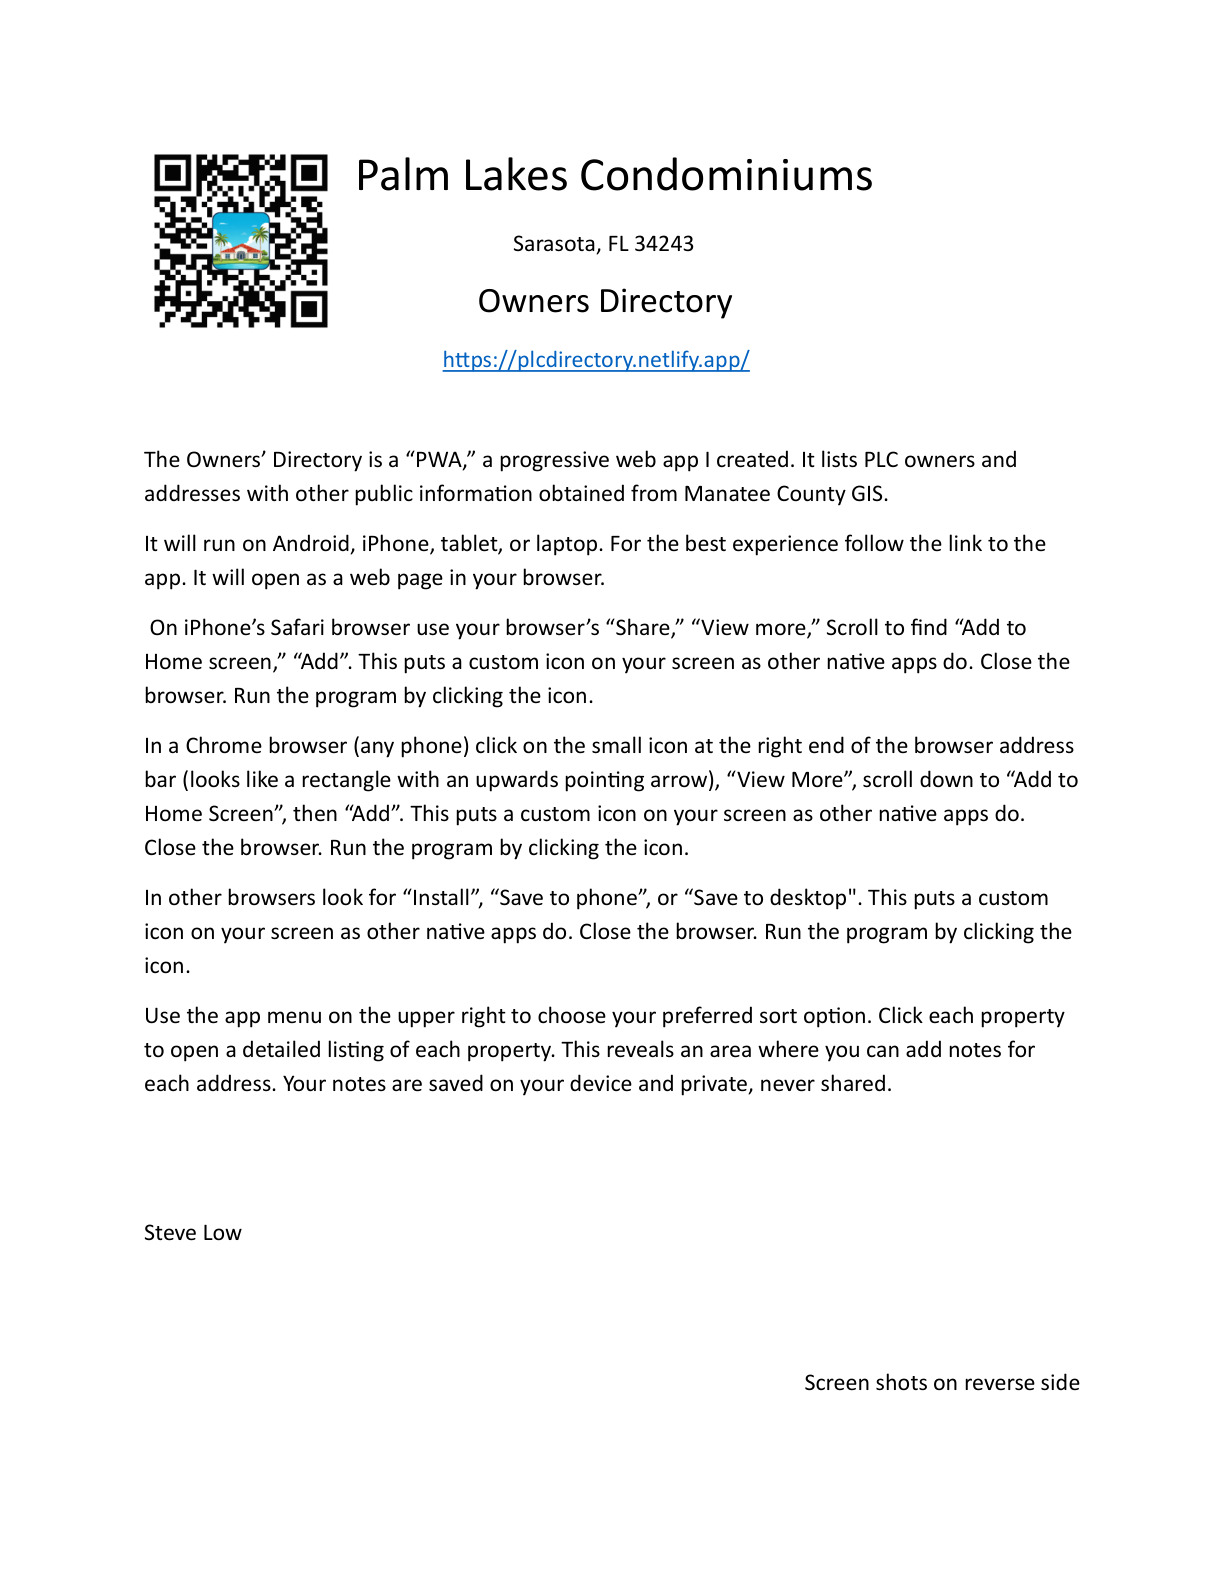
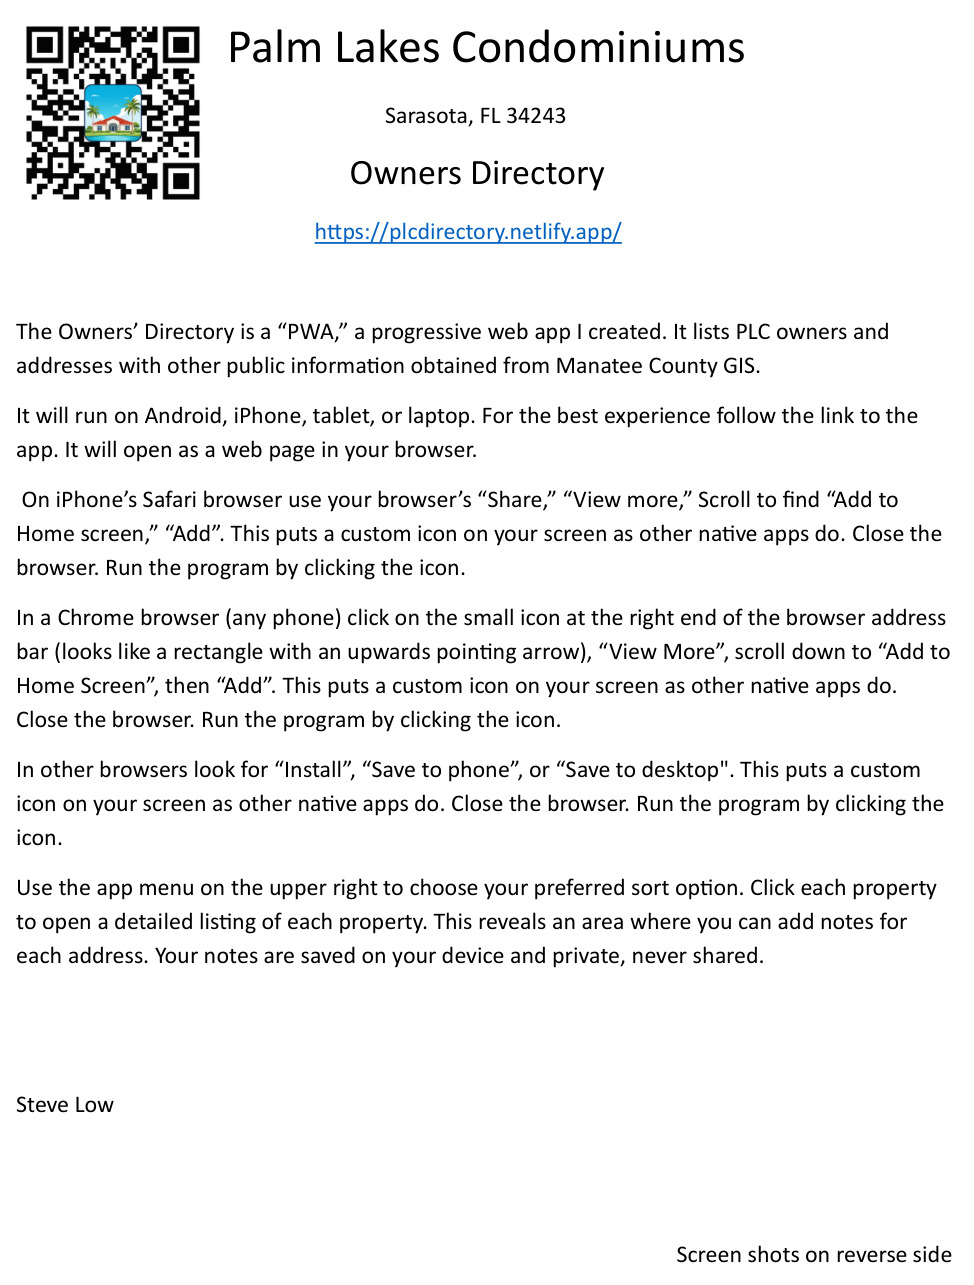
Update PDF rendering logic and instructions assets
Replit-Commit-Author: Agent

diff --git a/artifacts/mobile/app/(tabs)/index.tsx b/artifacts/mobile/app/(tabs)/index.tsx
@@ -55,11 +55,13 @@ const INSTRUCTIONS_PAGES = [
     source: require("../../assets/images/instructions-page-1.jpg"),
     label: "Front side · Page 1 of 2",
     accessibilityLabel: "Instructions front side, page 1 of 2",
+    aspectRatio: 486.8 / 642.2,
   },
   {
     source: require("../../assets/images/instructions-page-2.jpg"),
     label: "Back side · screen captures · Page 2 of 2",
     accessibilityLabel: "Instructions back side with screen captures, page 2 of 2",
+    aspectRatio: 431.1 / 661.8,
   },
 ];
 
@@ -1016,7 +1018,12 @@ export default function DirectoryScreen() {
                 <Text style={[styles.instructionsPageLabel, { color: theme.textMuted, fontFamily: "Inter_600SemiBold" }]}>
                   {page.label}
                 </Text>
-                <View style={styles.instructionsPageImageFrame}>
+                <View
+                  style={[
+                    styles.instructionsPageImageFrame,
+                    { aspectRatio: page.aspectRatio },
+                  ]}
+                >
                   <Image
                     source={page.source}
                     style={styles.instructionsPageImage}
@@ -1379,7 +1386,6 @@ const styles = StyleSheet.create({
   },
   instructionsPageImageFrame: {
     width: "100%",
-    aspectRatio: 612 / 792,
     maxWidth: 760,
     backgroundColor: "#fff",
   },

diff --git a/.agents/scripts/render-instructions-pdf.py b/.agents/scripts/render-instructions-pdf.py
@@ -1,5 +1,5 @@
 #!/usr/bin/env python3
-"""Render the Palm Lakes instruction PDF pages for visual inspection."""
+"""Render the Palm Lakes instruction PDF and create cropped viewer assets."""
 
 from pathlib import Path
 
@@ -10,6 +10,34 @@ ROOT = Path(__file__).resolve().parents[2]
 SOURCE = ROOT / "artifacts/mobile/public/Instructions.pdf"
 OUTPUT_DIR = ROOT / ".agents/outputs/instructions-pdf"
 ASSET_DIR = ROOT / "artifacts/mobile/assets/images"
+VIEWER_CROP_PADDING = 8
+
+
+def content_bounds(page: pymupdf.Page) -> pymupdf.Rect:
+    bounds: pymupdf.Rect | None = None
+    for block in page.get_text("dict")["blocks"]:
+        if block["type"] == 0:
+            text = "".join(
+                span["text"]
+                for line in block["lines"]
+                for span in line["spans"]
+            ).strip()
+            if not text:
+                continue
+        elif block["type"] != 1:
+            continue
+
+        block_bounds = pymupdf.Rect(block["bbox"])
+        bounds = block_bounds if bounds is None else bounds | block_bounds
+
+    if bounds is None:
+        raise ValueError(f"Page {page.number + 1} has no visible content to crop")
+
+    bounds.x0 -= VIEWER_CROP_PADDING
+    bounds.y0 -= VIEWER_CROP_PADDING
+    bounds.x1 += VIEWER_CROP_PADDING
+    bounds.y1 += VIEWER_CROP_PADDING
+    return bounds & page.rect
 
 
 def main() -> None:
@@ -24,12 +52,18 @@ def main() -> None:
         inspection_path = OUTPUT_DIR / f"page-{index}.png"
         inspection_image.save(inspection_path)
 
-        app_image = page.get_pixmap(matrix=pymupdf.Matrix(2, 2), alpha=False)
+        crop = content_bounds(page)
+        app_image = page.get_pixmap(
+            matrix=pymupdf.Matrix(2, 2),
+            clip=crop,
+            alpha=False,
+        )
         asset_path = ASSET_DIR / f"instructions-page-{index}.jpg"
         app_image.save(asset_path, output="jpeg", jpg_quality=92)
         print(
             f"Rendered page {index}/{document.page_count}: "
-            f"{inspection_path} and {asset_path}"
+            f"{inspection_path} and cropped viewer asset {asset_path} "
+            f"({crop.width:.1f} × {crop.height:.1f} pt)"
         )
 
 

diff --git a/.agents/memory/ios-pwa-multipage-pdf.md b/.agents/memory/ios-pwa-multipage-pdf.md
@@ -3,8 +3,8 @@ name: iOS PWA multi-page PDF viewing
 description: iPhone's inline PDF viewer inside an app-owned iframe may expose only the first page; render pages separately for reliable in-app scrolling.
 ---
 
-When a multi-page PDF must be browsable inside the iOS PWA, do not rely on the browser's native PDF viewer embedded in an iframe. iPhone can show the first page while hiding access to subsequent pages. For small, mostly static documents, render each page to a bundled image and display all pages in a vertically scrollable in-app view; preserve clear front/back labels and the source PDF for printing or downloading.
+When a multi-page PDF must be browsable inside the iOS PWA, do not rely on the browser's native PDF viewer embedded in an iframe. iPhone can show the first page while hiding access to subsequent pages. For small, mostly static documents, render each page to a bundled image, trim only the outer blank margins around text/image content with a little padding, and display all pages in a vertically scrollable in-app view. Keep clear front/back labels and preserve the original PDF unchanged.
 
-**Why:** The two-page owner-directory instructions PDF showed only its text/front page in the iPhone in-app iframe, leaving the screenshots on the reverse side inaccessible.
+**Why:** The two-page owner-directory instructions PDF showed only its text/front page in the iPhone in-app iframe, leaving the screenshots on the reverse side inaccessible. The user also approved trimming blank margins in the viewer while keeping the original PDF unchanged.
 
-**How to apply:** Use page images as the mobile viewer content and a React Native `ScrollView` so web/PWA and native users can reach every page without leaving the app.
+**How to apply:** Use content-bounded page images as the viewer content and a React Native `ScrollView` so web/PWA and native users can reach every page without leaving the app; leave the source PDF available for full-page fidelity.
